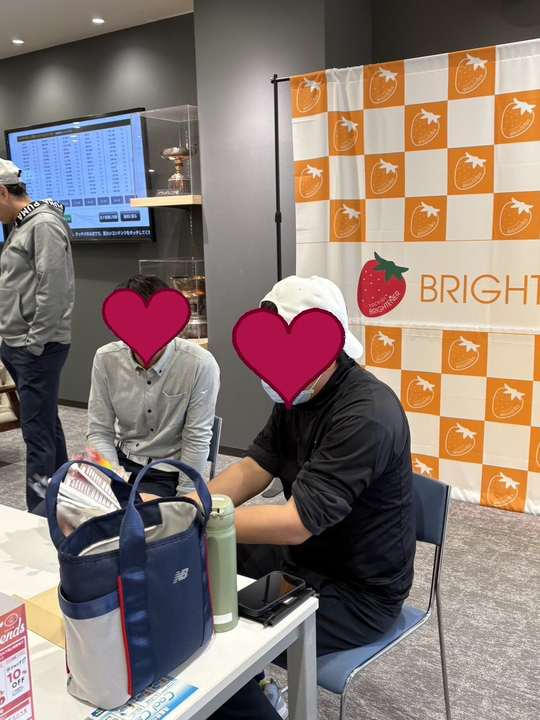
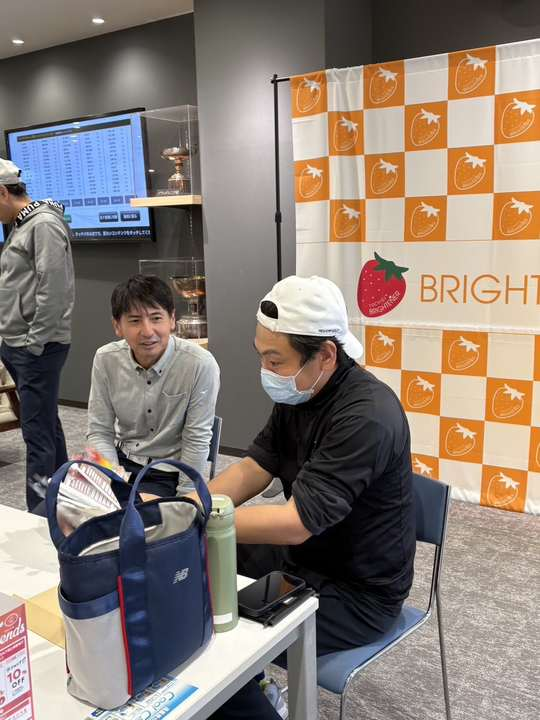
ギャラリー写真からハートを取り除く
元写真を圧縮し直して差し替える。

Changed region(s): [[0.4148, 0.4278, 0.6519, 0.5806], [0.1778, 0.3972, 0.3556, 0.5194], [0.8889, 0.55, 0.9185, 0.5806]]

diff --git a/index.html b/index.html
@@ -65,7 +65,7 @@
     background:
       radial-gradient(circle at 18% 22%, rgba(232,169,192,.18), transparent 42%),
       linear-gradient(180deg, rgba(90,31,57,.78), rgba(63,20,42,.90)),
-      url('images/hero.jpg?v=20261119e') center/cover no-repeat;
+      url('images/hero.jpg?v=20261122a') center/cover no-repeat;
     position:relative;overflow:hidden;padding:120px 0 80px;
   }
   .hero::before{content:"";position:absolute;inset:0;opacity:.05;pointer-events:none;background-image:repeating-linear-gradient(115deg,#fff 0 2px,transparent 2px 9px)}
@@ -467,26 +467,26 @@
     </div>
     <div class="scene-show rv" data-slideshow>
       <div class="scene-stage">
-        <figure class="scene-slide is-active"><img loading="eager" fetchpriority="high" decoding="async" src="images/slideshow/slide-01.jpg?v=20261119e" alt="クラブハウスでの集合"></figure>
-        <figure class="scene-slide"><img loading="lazy" decoding="async" src="images/slideshow/slide-02.jpg?v=20261119e" alt="ラウンジでの記念写真"></figure>
-        <figure class="scene-slide"><img loading="lazy" decoding="async" src="images/slideshow/slide-03.jpg?v=20261119e" alt="クラブハウスでの交流"></figure>
-        <figure class="scene-slide"><img loading="lazy" decoding="async" src="images/slideshow/slide-04.jpg?v=20261119e" alt="コースでの一コマ"></figure>
-        <figure class="scene-slide"><img loading="lazy" decoding="async" src="images/slideshow/slide-05.jpg?v=20261119e" alt="グリーンでの祝福"></figure>
-        <figure class="scene-slide"><img loading="lazy" decoding="async" src="images/slideshow/slide-06.jpg?v=20261119e" alt="プレー中の様子"></figure>
-        <figure class="scene-slide"><img loading="lazy" decoding="async" src="images/slideshow/slide-07.jpg?v=20261119e" alt="ティーショットの一コマ"></figure>
-        <figure class="scene-slide"><img loading="lazy" decoding="async" src="images/slideshow/slide-08.jpg?v=20261119e" alt="参加者の集合写真"></figure>
-        <figure class="scene-slide"><img loading="lazy" decoding="async" src="images/slideshow/slide-09.jpg?v=20261119e" alt="ラウンドの思い出"></figure>
-        <figure class="scene-slide"><img loading="lazy" decoding="async" src="images/slideshow/slide-10.jpg?v=20261119e" alt="コースサイドの風景"></figure>
-        <figure class="scene-slide"><img loading="lazy" decoding="async" src="images/slideshow/slide-11.jpg?v=20261119e" alt="クラブハウスでの一幕"></figure>
-        <figure class="scene-slide"><img loading="lazy" decoding="async" src="images/slideshow/slide-12.jpg?v=20261119e" alt="フェアウェイでのショット"></figure>
-        <figure class="scene-slide"><img loading="lazy" decoding="async" src="images/slideshow/slide-13.jpg?v=20261119e" alt="参加者同士の交流"></figure>
-        <figure class="scene-slide"><img loading="lazy" decoding="async" src="images/slideshow/slide-14.jpg?v=20261119e" alt="プレー後の様子"></figure>
-        <figure class="scene-slide"><img loading="lazy" decoding="async" src="images/slideshow/slide-15.jpg?v=20261119e" alt="記念の一枚"></figure>
-        <figure class="scene-slide"><img loading="lazy" decoding="async" src="images/slideshow/slide-16.jpg?v=20261119e" alt="ラウンド風景"></figure>
-        <figure class="scene-slide"><img loading="lazy" decoding="async" src="images/slideshow/slide-17.jpg?v=20261119e" alt="笑顔のスナップ"></figure>
-        <figure class="scene-slide"><img loading="lazy" decoding="async" src="images/slideshow/slide-18.jpg?v=20261119e" alt="コンペの一コマ"></figure>
-        <figure class="scene-slide"><img loading="lazy" decoding="async" src="images/slideshow/slide-19.jpg?v=20261119e" alt="集合の記念写真"></figure>
-        <figure class="scene-slide"><img loading="lazy" decoding="async" src="images/slideshow/slide-20.jpg?v=20261119e" alt="コースの景色"></figure>
+        <figure class="scene-slide is-active"><img loading="eager" fetchpriority="high" decoding="async" src="images/slideshow/slide-01.jpg?v=20261122a" alt="クラブハウスでの集合"></figure>
+        <figure class="scene-slide"><img loading="lazy" decoding="async" src="images/slideshow/slide-02.jpg?v=20261122a" alt="ラウンジでの記念写真"></figure>
+        <figure class="scene-slide"><img loading="lazy" decoding="async" src="images/slideshow/slide-03.jpg?v=20261122a" alt="クラブハウスでの交流"></figure>
+        <figure class="scene-slide"><img loading="lazy" decoding="async" src="images/slideshow/slide-04.jpg?v=20261122a" alt="コースでの一コマ"></figure>
+        <figure class="scene-slide"><img loading="lazy" decoding="async" src="images/slideshow/slide-05.jpg?v=20261122a" alt="グリーンでの祝福"></figure>
+        <figure class="scene-slide"><img loading="lazy" decoding="async" src="images/slideshow/slide-06.jpg?v=20261122a" alt="プレー中の様子"></figure>
+        <figure class="scene-slide"><img loading="lazy" decoding="async" src="images/slideshow/slide-07.jpg?v=20261122a" alt="ティーショットの一コマ"></figure>
+        <figure class="scene-slide"><img loading="lazy" decoding="async" src="images/slideshow/slide-08.jpg?v=20261122a" alt="参加者の集合写真"></figure>
+        <figure class="scene-slide"><img loading="lazy" decoding="async" src="images/slideshow/slide-09.jpg?v=20261122a" alt="ラウンドの思い出"></figure>
+        <figure class="scene-slide"><img loading="lazy" decoding="async" src="images/slideshow/slide-10.jpg?v=20261122a" alt="コースサイドの風景"></figure>
+        <figure class="scene-slide"><img loading="lazy" decoding="async" src="images/slideshow/slide-11.jpg?v=20261122a" alt="クラブハウスでの一幕"></figure>
+        <figure class="scene-slide"><img loading="lazy" decoding="async" src="images/slideshow/slide-12.jpg?v=20261122a" alt="フェアウェイでのショット"></figure>
+        <figure class="scene-slide"><img loading="lazy" decoding="async" src="images/slideshow/slide-13.jpg?v=20261122a" alt="参加者同士の交流"></figure>
+        <figure class="scene-slide"><img loading="lazy" decoding="async" src="images/slideshow/slide-14.jpg?v=20261122a" alt="プレー後の様子"></figure>
+        <figure class="scene-slide"><img loading="lazy" decoding="async" src="images/slideshow/slide-15.jpg?v=20261122a" alt="記念の一枚"></figure>
+        <figure class="scene-slide"><img loading="lazy" decoding="async" src="images/slideshow/slide-16.jpg?v=20261122a" alt="ラウンド風景"></figure>
+        <figure class="scene-slide"><img loading="lazy" decoding="async" src="images/slideshow/slide-17.jpg?v=20261122a" alt="笑顔のスナップ"></figure>
+        <figure class="scene-slide"><img loading="lazy" decoding="async" src="images/slideshow/slide-18.jpg?v=20261122a" alt="コンペの一コマ"></figure>
+        <figure class="scene-slide"><img loading="lazy" decoding="async" src="images/slideshow/slide-19.jpg?v=20261122a" alt="集合の記念写真"></figure>
+        <figure class="scene-slide"><img loading="lazy" decoding="async" src="images/slideshow/slide-20.jpg?v=20261122a" alt="コースの景色"></figure>
       </div>
       <div class="scene-side">
         <div class="scene-count" data-count>1 / 20</div>
@@ -496,12 +496,12 @@
       </div>
     </div>
     <div class="gal rv">
-      <div class="gal-item"><img loading="lazy" decoding="async" src="images/slideshow/slide-04.jpg?v=20261119e" alt="コースでの一コマ"></div>
-      <div class="gal-item"><img loading="lazy" decoding="async" src="images/slideshow/slide-05.jpg?v=20261119e" alt="グリーンでの祝福"></div>
-      <div class="gal-item"><img loading="lazy" decoding="async" src="images/slideshow/slide-02.jpg?v=20261119e" alt="ラウンジでの記念写真"></div>
-      <div class="gal-item"><img loading="lazy" decoding="async" src="images/slideshow/slide-01.jpg?v=20261119e" alt="クラブハウスでの集合"></div>
-      <div class="gal-item"><img loading="lazy" decoding="async" src="images/slideshow/slide-12.jpg?v=20261119e" alt="フェアウェイでのショット"></div>
-      <div class="gal-item"><img loading="lazy" decoding="async" src="images/slideshow/slide-20.jpg?v=20261119e" alt="コースの景色"></div>
+      <div class="gal-item"><img loading="lazy" decoding="async" src="images/slideshow/slide-04.jpg?v=20261122a" alt="コースでの一コマ"></div>
+      <div class="gal-item"><img loading="lazy" decoding="async" src="images/slideshow/slide-05.jpg?v=20261122a" alt="グリーンでの祝福"></div>
+      <div class="gal-item"><img loading="lazy" decoding="async" src="images/slideshow/slide-02.jpg?v=20261122a" alt="ラウンジでの記念写真"></div>
+      <div class="gal-item"><img loading="lazy" decoding="async" src="images/slideshow/slide-01.jpg?v=20261122a" alt="クラブハウスでの集合"></div>
+      <div class="gal-item"><img loading="lazy" decoding="async" src="images/slideshow/slide-12.jpg?v=20261122a" alt="フェアウェイでのショット"></div>
+      <div class="gal-item"><img loading="lazy" decoding="async" src="images/slideshow/slide-20.jpg?v=20261122a" alt="コースの景色"></div>
     </div>
   </div>
 </section>
@@ -515,7 +515,7 @@
     </div>
     <div class="venue-grid rv">
       <div class="venue-photo">
-        <img src="images/venue.jpg?v=20261119e" alt="関東国際カントリークラブのコースとクラブハウス"
+        <img src="images/venue.jpg?v=20261122a" alt="関東国際カントリークラブのコースとクラブハウス"
              style="width:100%;height:100%;object-fit:cover;">
       </div>
       <div class="venue-info">
